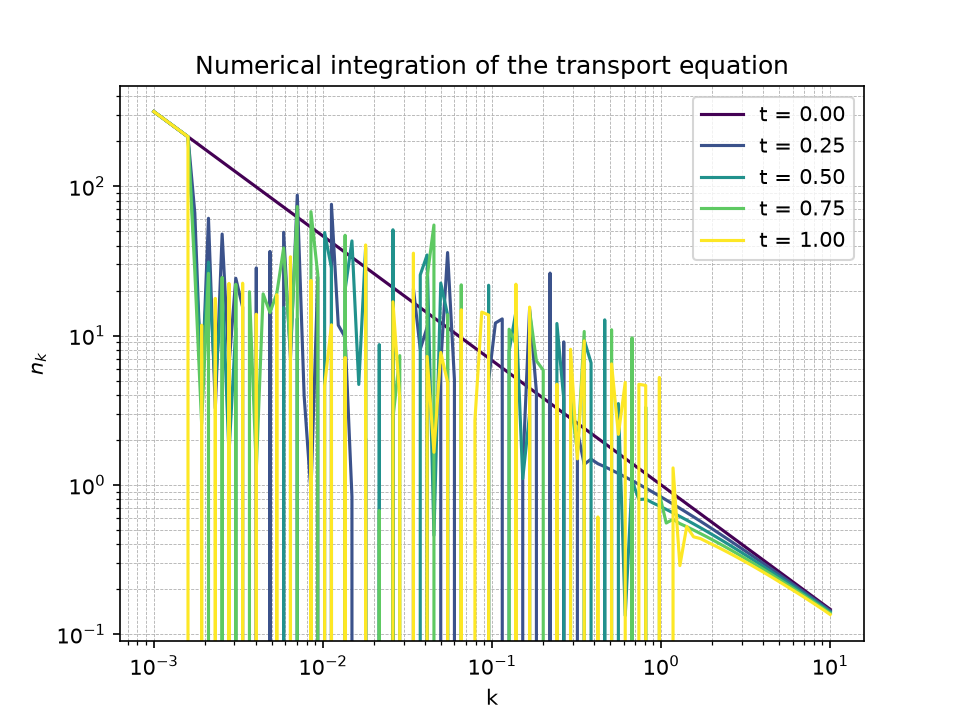
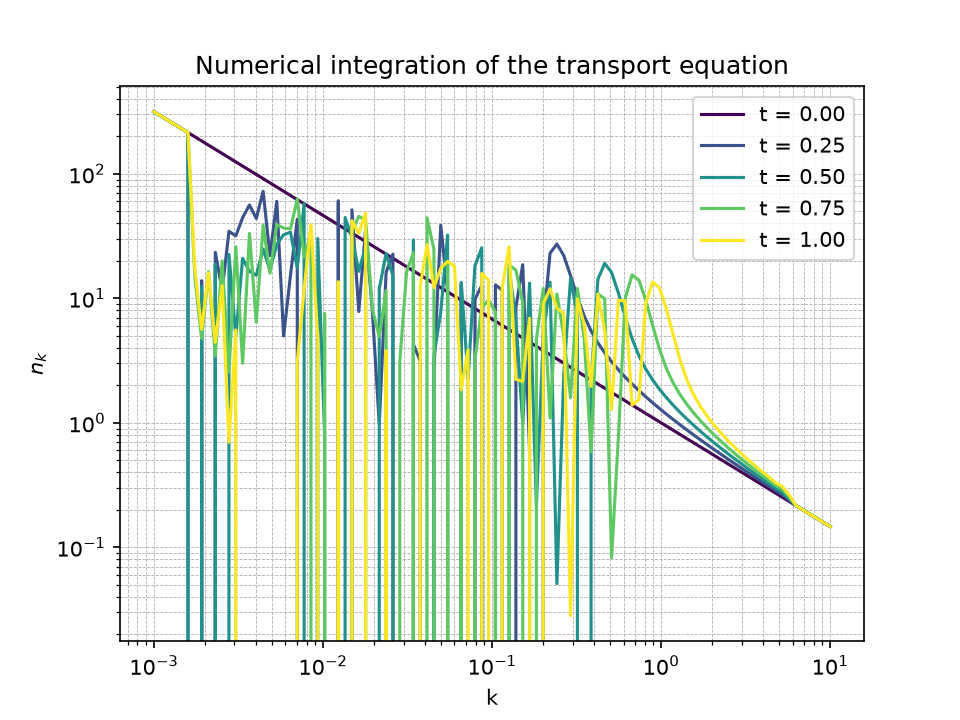
Refactor transport functions: update boundary condition handling and integrate function parameters

diff --git a/transport.py b/transport.py
@@ -33,14 +33,31 @@ def dndk(n, k, dlnk):
     n (array): Array of n values.
     dk (float): Step size in k-space.
     """
-    dn_dk = np.zeros_like(n)
-    dn_dk[1:-1] = (n[2:] - n[:-2]) / (2 * dlnk)
+    #dn_dk = np.zeros_like(n)
+    #dn_dk[1:-1] = (n[2:] - n[:-2]) / (2 * dlnk)
 
     # Handle the boundaries using forward and backward differences
-    dn_dk[0] = (n[1] - n[0]) / dlnk
-    dn_dk[-1] = (n[-1]- n[-2]) / dlnk
+    #dn_dk[0] = (n[1] - n[0]) / dlnk
+    #dn_dk[-1] = (n[-1]- n[-2]) / dlnk
 
-    return dn_dk/k
+    dn_dlnk = np.gradient(n, dlnk, edge_order=2)
+
+    return dn_dlnk/k
+
+def apply_standard_bc(n, k, n_left_fix, buf_left = 6, buf_right = 6):
+    """
+    Apply standard boundary conditions to the array n.
+    Parameters:
+    n (array): Array of n values.
+    k (array): k-space array.
+    """
+
+    n = n.copy()
+    n[:buf_left] = n_left_fix
+
+    n[-buf_right:] = n[-buf_right-1]
+
+    return n
 
 def apply_bc(n, k, n_left_fix, buf_left = 6, buf_right = 6, fit_points = 2):
 
@@ -55,34 +72,40 @@ def apply_bc(n, k, n_left_fix, buf_left = 6, buf_right = 6, fit_points = 2):
     n[:buf_left] = n_left_fix
 
     idx_fit = slice(-(buf_right + fit_points), -buf_right)
-    log_k_fit = np.log(k[idx_fit])
-    log_n_fit = np.log(n[idx_fit])
+    #log_k_fit = np.log(k[idx_fit])
+    k_fit = k[idx_fit]
+    #log_n_fit = np.log(n[idx_fit])
+    n_fit = n[idx_fit]
 
-    slope, intercept = np.polyfit(log_k_fit, log_n_fit, 1)
+    #slope, intercept = np.polyfit(log_k_fit, log_n_fit, 1)
+    slope, intercept = np.polyfit(k_fit, n_fit, 1)
 
-    log_k_tail = np.log(k[-buf_right:])
-    n[-buf_right:] = np.exp(slope * log_k_tail + intercept)
+    #log_k_tail = np.log(k[-buf_right:])
+    k_tail = k[-buf_right:]
+    #n[-buf_right:] = np.exp(slope * log_k_tail + intercept)
+    n[-buf_right:] = np.exp(slope * k_tail + intercept)
 
     return n
 
 def rhs(t, n, k, n_left_fix, dlnk , c):
     
-    n = apply_bc(n, k, n_left_fix, buf_left = 6, buf_right = 6, fit_points = 2)
+    #n = apply_bc(n, k, n_left_fix, buf_left = 6, buf_right = 6, fit_points = 2)
+    n = apply_standard_bc(n, k, n_left_fix, buf_left= 6, buf_right=6)
     dn = dndk(n, k, dlnk)
     dndt = c*dn
     dndt[:6] = 0.0
 
     return dndt
 
-def rk4_step(rhs, t, n, dt, *rhs_args):
-    k1 = rhs(t, n, *rhs_args)
-    k2 = rhs(t + dt/2, n + dt/2 * k1, *rhs_args)
-    k3 = rhs(t + dt/2, n + dt/2 * k2, *rhs_args)
-    k4 = rhs(t + dt,   n + dt   * k3, *rhs_args)
+def rk4_step(rhs, t, n, dt, n_left_fix, k, dlnk, c):
+    k1 = rhs(t, n, k, n_left_fix,  dlnk, c)
+    k2 = rhs(t + dt/2, n + dt/2 * k1, k, n_left_fix, dlnk, c )
+    k3 = rhs(t + dt/2, n + dt/2 * k2, k, n_left_fix, dlnk, c )
+    k4 = rhs(t + dt,   n + dt   * k3, k, n_left_fix, dlnk, c )
 
     return n + (dt/6) * (k1 + 2*k2 + 2*k3 + k4)
 
-def integrate(rhs, n0, t_span, dt, *rhs_args):
+def integrate(rhs, n0, t_span, dt, n_left_fix, k, dlnk, c):
     t0, tf = t_span
     n_step = int(np.ceil((tf-t0)/dt))
 
@@ -93,7 +116,8 @@ def integrate(rhs, n0, t_span, dt, *rhs_args):
     ns = [n.copy()]
 
     for _ in range(n_step):
-        n = rk4_step(rhs, t, n, dt, *rhs_args)
+        n = rk4_step(rhs, t, n, dt, n_left_fix, k, dlnk, c)
+
         t += dt
         ts.append(t)
         ns.append(n.copy())

diff --git a/main_transport.py b/main_transport.py
@@ -1,12 +1,12 @@
 from transport import k_space, initial_condition, rhs, apply_bc, dndk, integrate, plot_results
 
-c = 1.0
-n_left_fix = 6
+c = -1.0
+
 k, dlnk = k_space(1e-3, 10, 100)
 n_k = initial_condition(1.0, k, -5/6)
-rhs_args = (k, n_left_fix, dlnk, c)
+rhs_args = (k, dlnk, c)
 
-ts, ns = integrate(rhs, n_k, (0.0, 1.0),  0.0005, *rhs_args)
+ts, ns = integrate(rhs, n_k, (0.0, 1.0),  0.0005, 6, k, dlnk, c)
 
 plot_results(ts, ns, n_snap = 5, k = k, save_path = "outputs_transport/transport_results.png", show = False)
 
